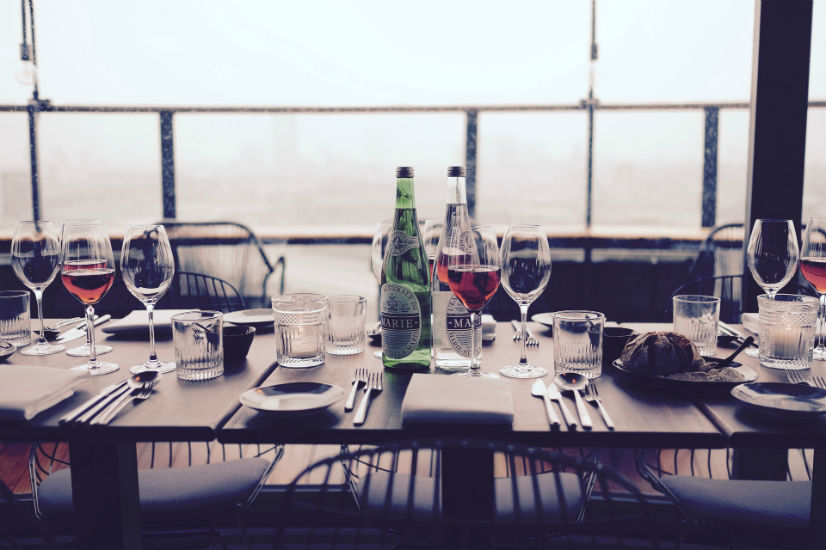
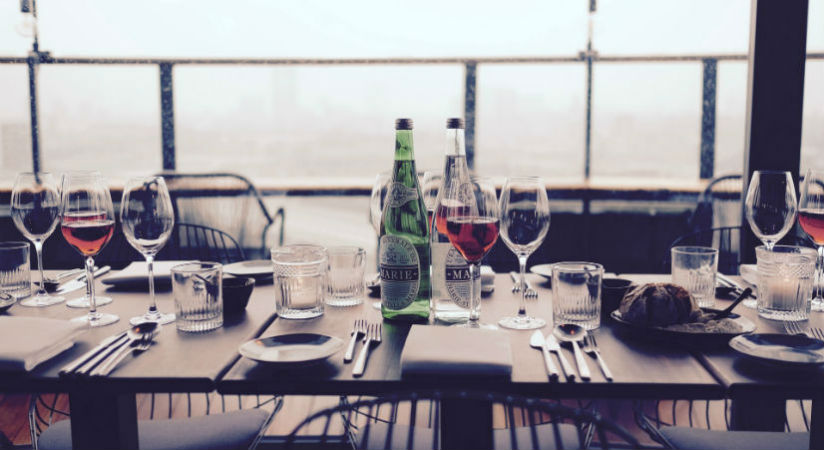
Swapped out carousel photos and CSS styling

diff --git a/app/assets/stylesheets/master.css.scss b/app/assets/stylesheets/master.css.scss
@@ -77,7 +77,7 @@ blockquote p {
 }
 
 .carousel-inner > .item > img, .carousel-inner > .item > a > img {
-  max-height: 550px;
+  max-height: 450px;
   width: 100%;
 }
 

diff --git a/app/controllers/places_controller.rb b/app/controllers/places_controller.rb
@@ -2,7 +2,6 @@ class PlacesController < ApplicationController
   before_action :authenticate_user!, only: [:new, :create, :edit, :update, :destroy]
 
   def index
-    # @places = Place.all
     @places = Place.order("name").page(params[:page]).per(5)
   end
 
